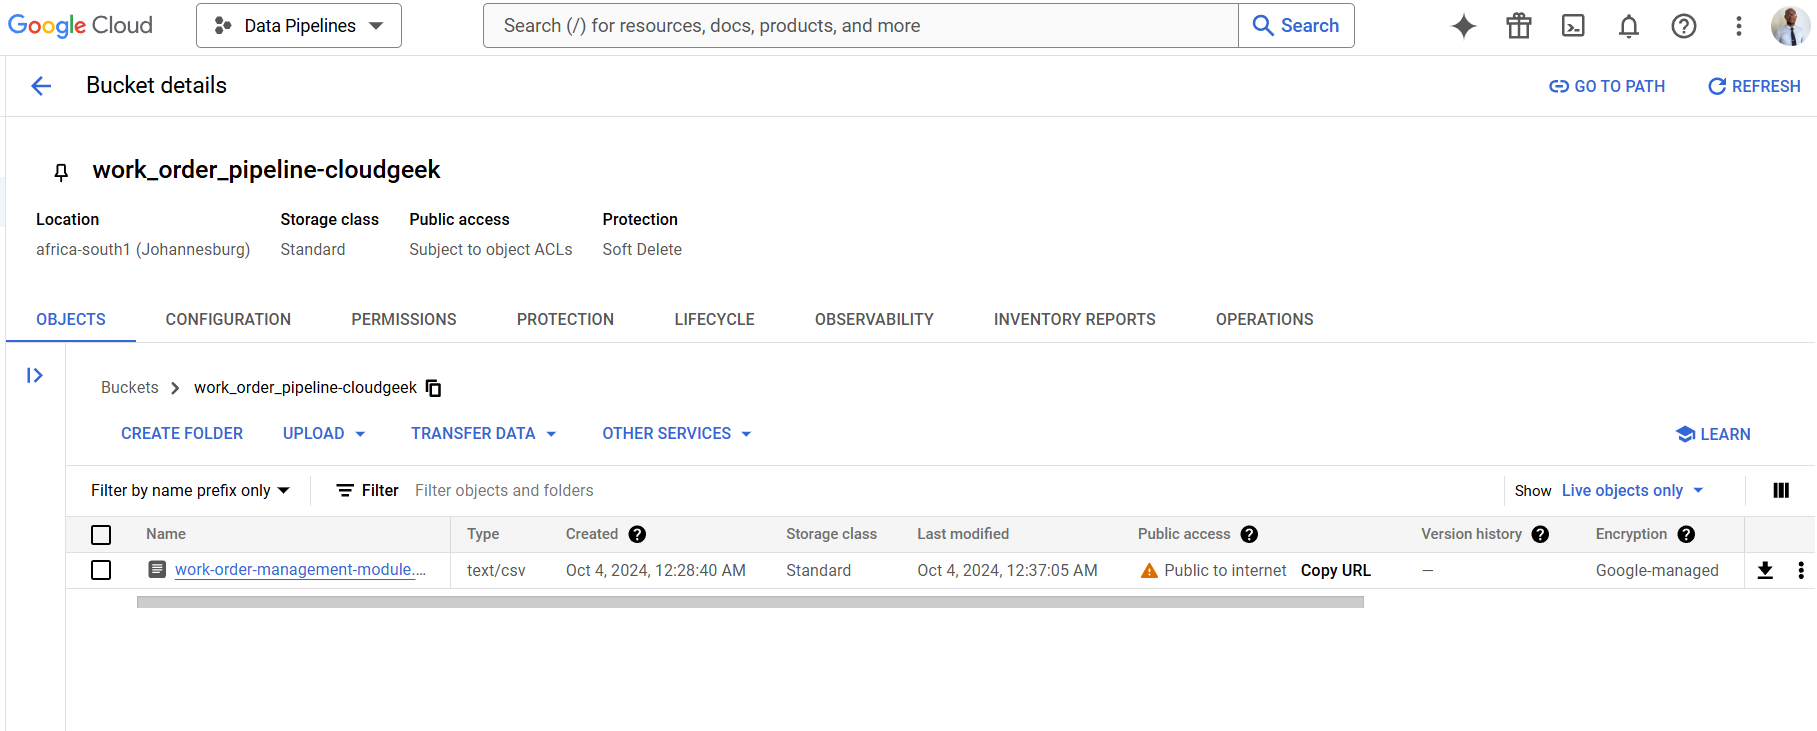
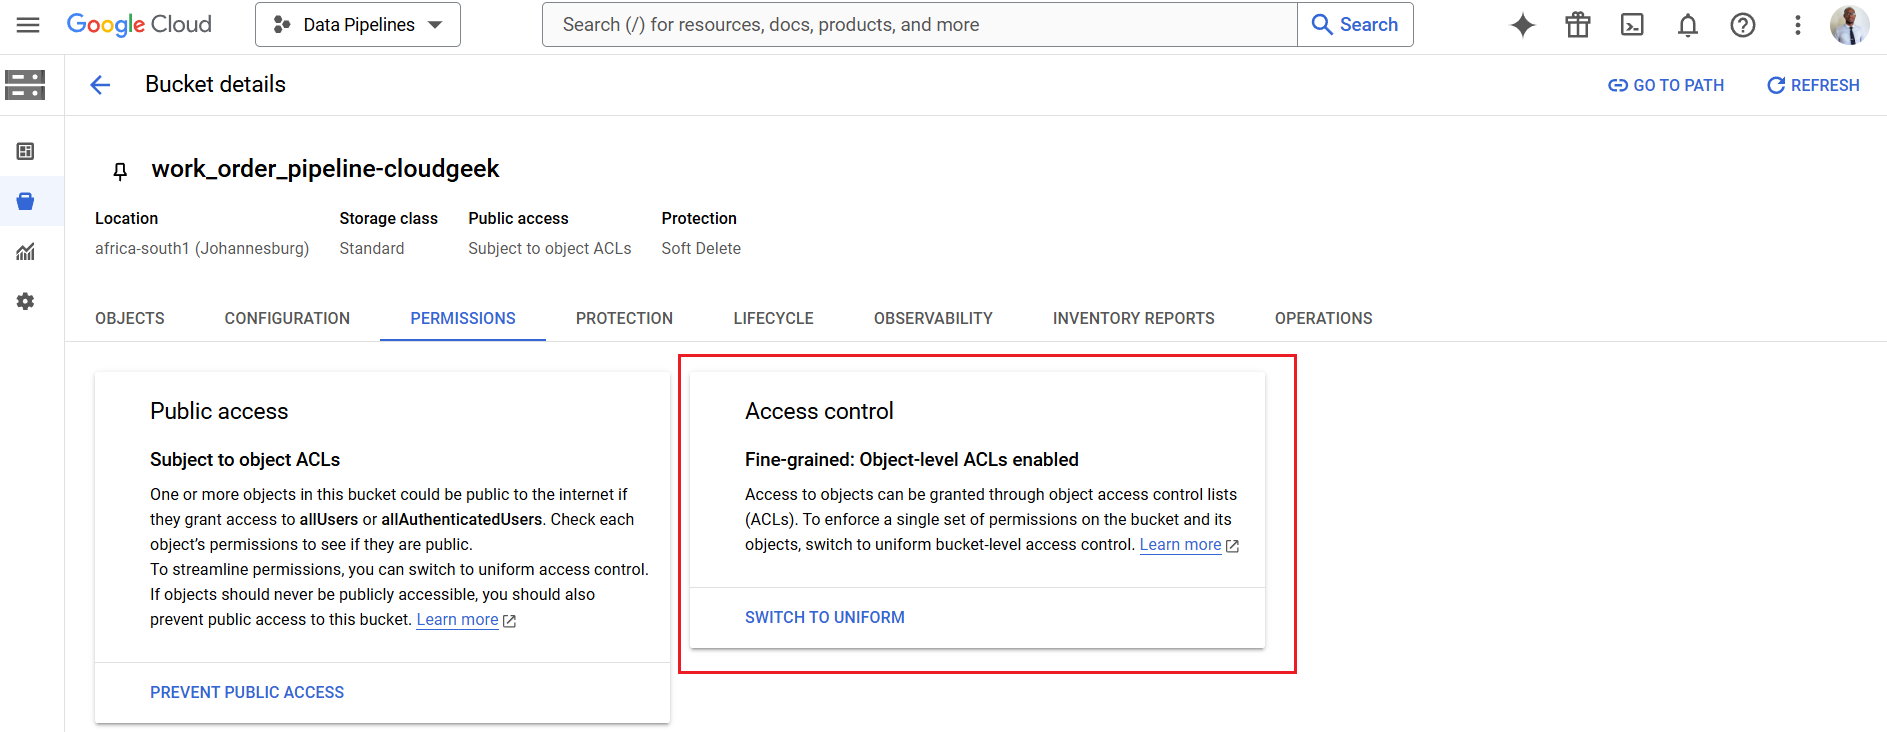
Updates

diff --git a/README.md b/README.md
@@ -106,11 +106,15 @@ Performance
 - 200 Gbps (per region, per project).
 - Scalable to many Tbps by requesting higher bandwidth quota.
 
-Ensure to disable 'Public access prevention' for this bucket, so that requests to this bucket and corresponding objects are authorized for Mage.
+Ensure to disable / deselect 'Public access prevention' for this bucket, so that requests to this bucket and corresponding objects are authorized for Mage.
+
 ![cloud_storage_1](https://github.com/OlaOlagunju/GCP_Mage_Data_Pipeline/blob/main/8.%20Images/cloud_storage_1.png)
 
 On this bucket, we will store the Work Order spreadsheet for later retrieval and analysis. Ensure to change bucket access control permissions to 'fine grained', then edit the object's (Work order spreadsheet) access controls to include a 'Public' entity and assign read rights.
+
 ![cloud_storage_2](https://github.com/OlaOlagunju/GCP_Mage_Data_Pipeline/blob/main/8.%20Images/cloud_storage_2.png)
+
+![cloud_storage_2](https://github.com/OlaOlagunju/GCP_Mage_Data_Pipeline/blob/main/8.%20Images/cloud_storage_3.png)
 
 
 ## Setting up Google Compute Engine
